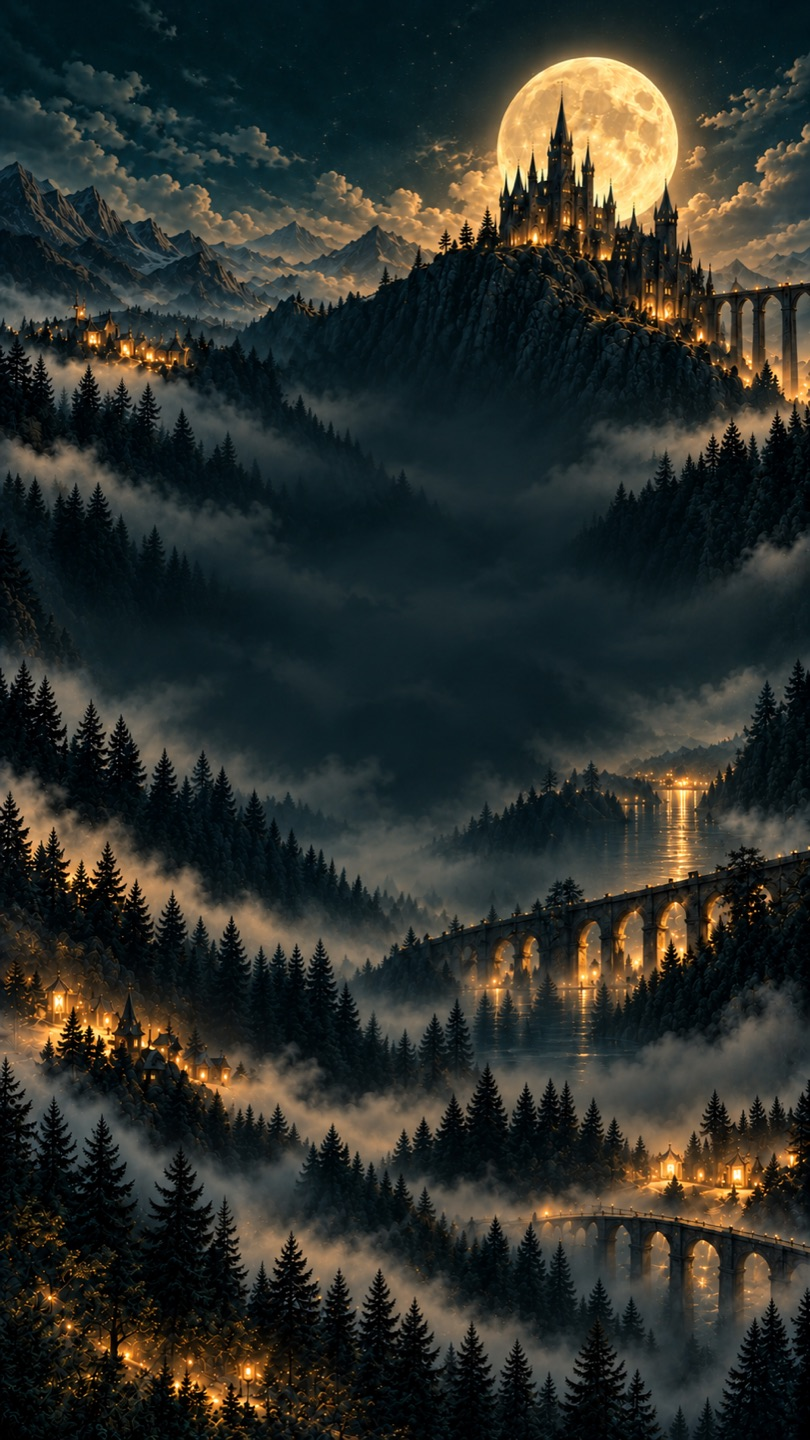
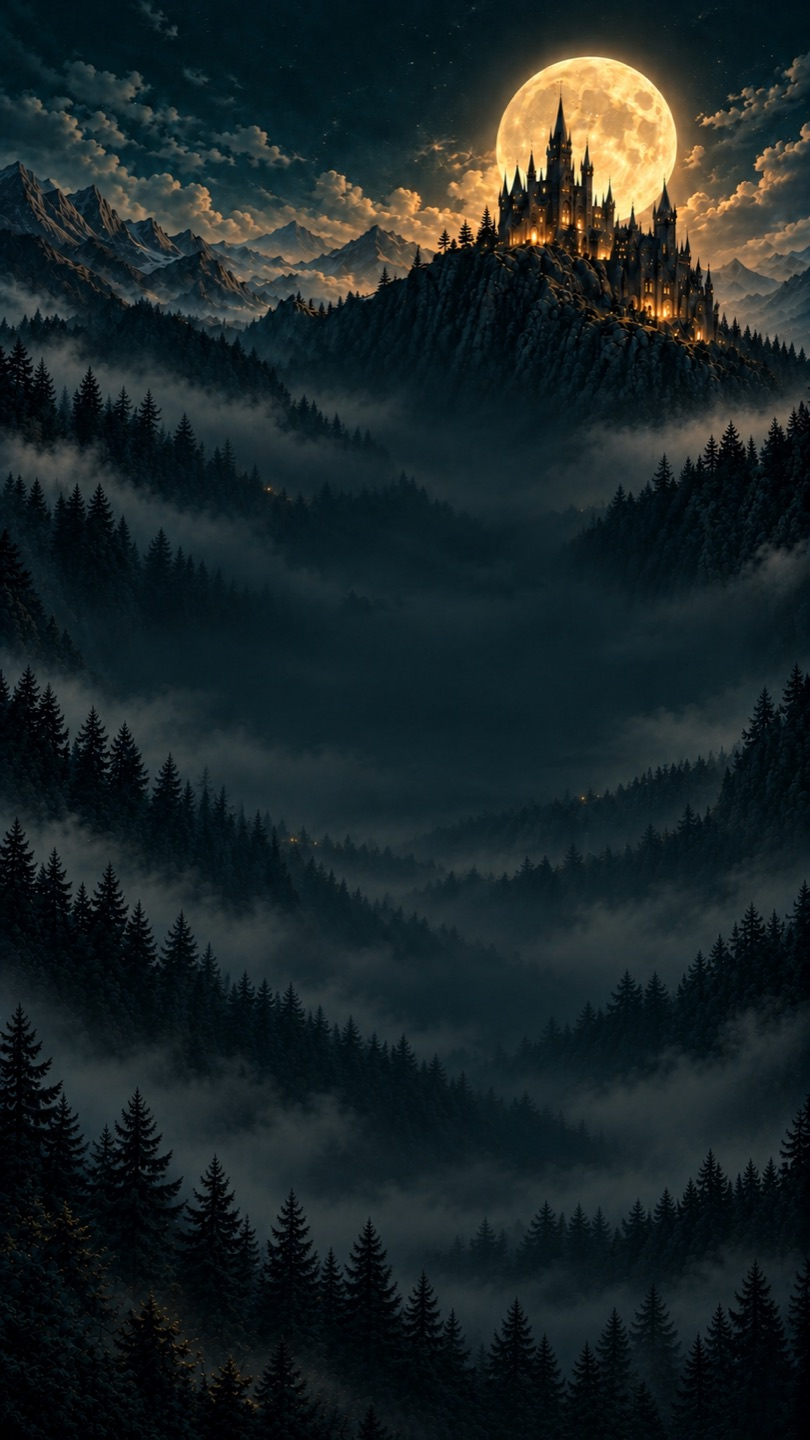
style(ui): refine game compass and enlarge proposal details

diff --git a/miniprogram/tests/proposal-carousel-slots.test.js b/miniprogram/tests/proposal-carousel-slots.test.js
@@ -105,8 +105,8 @@ test('status badges have restrained color background border and smaller text tha
   }
 });
 test('noncircular carousel separates wrapper from shared card with previews and real padding', () => {
-  const carousel = markup.split('<swiper class="history-swiper"')[1].split('</swiper>')[0];
-  assert.match(carousel, /previous-margin="28rpx" next-margin="28rpx"/);
+  const carousel = markup.split('<swiper class="history-swiper ')[1].split('</swiper>')[0];
+  assert.match(carousel, /previous-margin="\{\{night \? '10rpx' : '28rpx'\}\}" next-margin="\{\{night \? '10rpx' : '28rpx'\}\}"/);
   assert.match(carousel, /circular="\{\{false\}\}"/);
   assert.match(carousel, /<swiper-item[^>]*>\s*<view class="proposal-slide \{\{historyIndex === index \? 'active' : 'inactive'\}\}">/);
   assert.match(rule('.proposal-slide'), /height: 100%; box-sizing: border-box; padding: 8rpx 6rpx/);

diff --git a/miniprogram/assets/night-table/README.md b/miniprogram/assets/night-table/README.md
@@ -1,0 +1,9 @@
+# Formal game scenery
+
+`castle.jpg` is a local 810 × 1440 JPEG (quality 78), edited with the built-in imagegen tool from the previous version of this asset. No server upload is required. The scene intentionally contains no compass or UI.
+
+Final image-edit prompt:
+
+> Edit this existing portrait game background, preserving the exact overall composition, aspect ratio, dark ink-green and gold palette and upper third golden moon, gothic castle, night sky, mountains and subdued clouds. Simplify the middle and lower two thirds for legible game UI overlays: remove all large bridges, lower buildings, busy villages and bright reflections. Replace these with quiet dark forest silhouettes and a little soft mist, low detail and low contrast, only a few very dim warm distant lights. Around center make dark open mist without dense sharp trees. Bottom should be a calm dark forest backdrop, not black empty space. Upper castle and moon should remain recognizable and nearly unchanged. No compass, no gold decoration, no text, no avatars, no UI. High quality atmospheric painting; refine this image, do not redesign.
+
+`compass.svg` is an independent vector layer. Its center remains (320, 320), outer ring radius 300, viewBox 640 × 640. The existing room WXML scales it by `2 * circularLayout.radius * 640 / 600` and positions it at `circularLayout.centerTop`. Do not change these constants to adjust brightness. Ring opacity and stroke width can be tuned independently from the low-opacity center rose, keeping text legible without moving seats.
